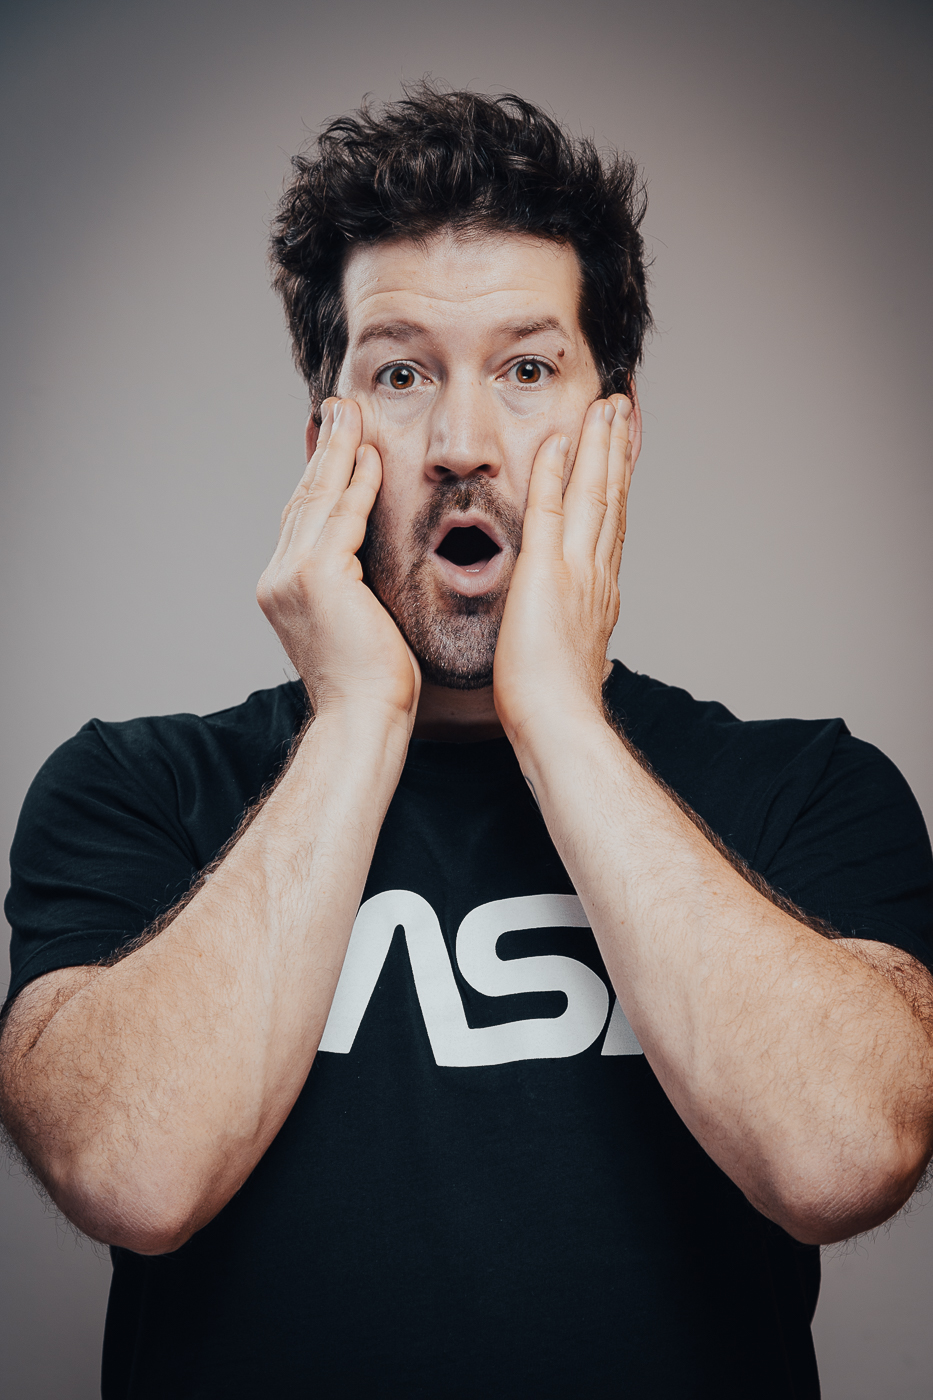
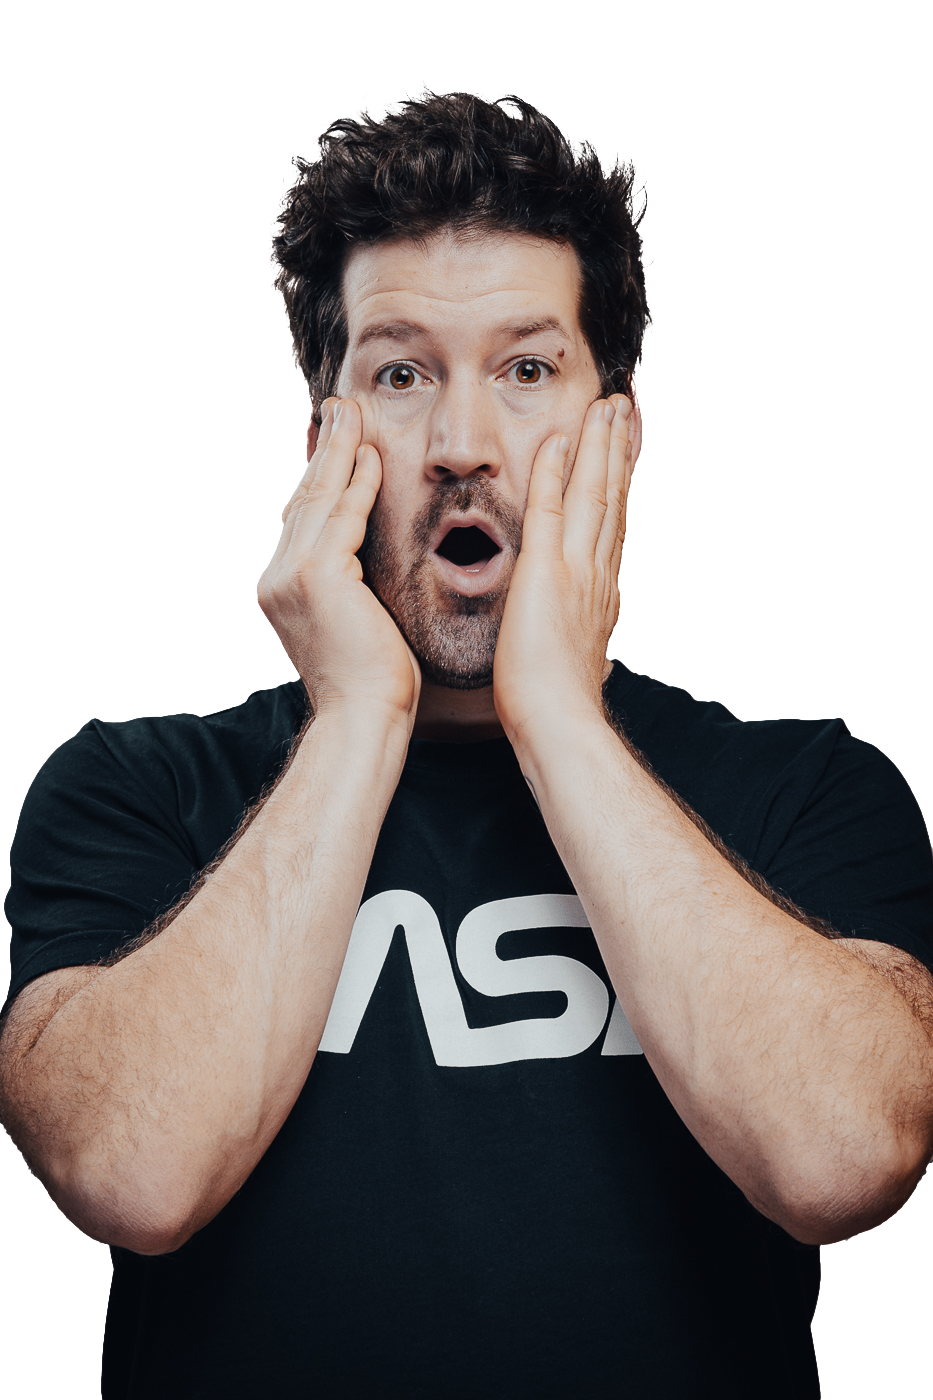
change HeroImage

diff --git a/src/components/Hero/Hero.tsx b/src/components/Hero/Hero.tsx
@@ -8,7 +8,7 @@ export const Hero = () => {
             <p className={styles.description}>I'm a Junior developer with experience using React, NoteJS usw ...</p>
             <a href="mailto:marco.jan@gmx.de" className={styles.contactBtn}>Contact Me</a>
         </div>
-        <img src={getImageUrl("hero/hero3.jpg")} alt="Profilbild Marco Jan" className={styles.heroImg}/>
+        <img src={getImageUrl("hero/hero2.png")} alt="Profilbild Marco Jan" className={styles.heroImg}/>
         <div className={styles.topBlur} />
         <div className={styles.bottomBlur} />
     </section>
